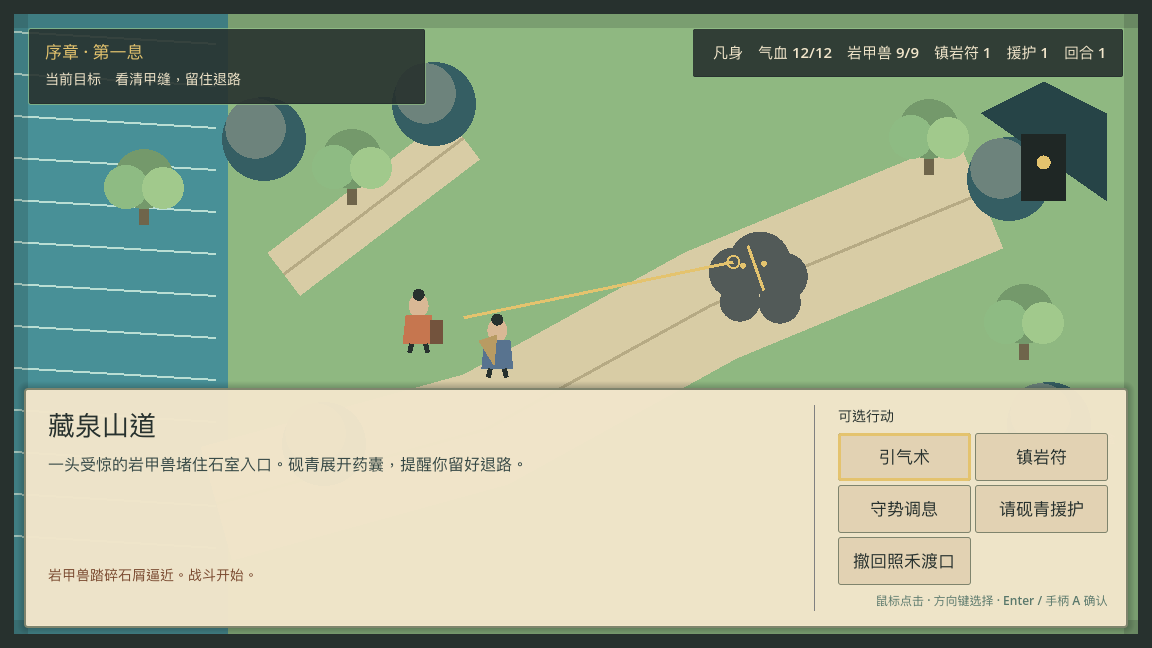
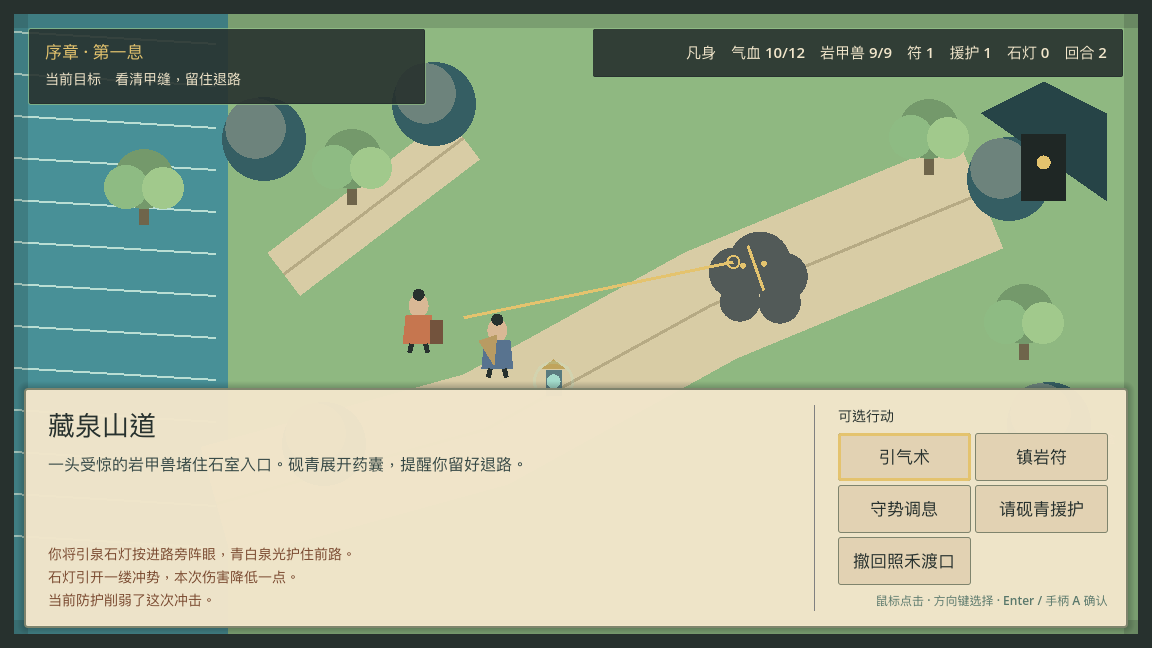
feat: add tactical spring lamp

Changed region(s): [[0.0312, 0.8333, 0.3125, 0.9568], [0.5, 0.0309, 0.9688, 0.1235], [0.4688, 0.5556, 0.5, 0.6173]]

diff --git a/docs/DECISIONS.md b/docs/DECISIONS.md
@@ -29,6 +29,9 @@ state; save v3 adds the companion-briefing quest flag. V1/v2 files are migrated 
 validated, then rewritten only after the player chooses to continue. Mid-chapter legacy saves
 infer that the required briefing already occurred; ferry saves expose the new conversation.
 
+Save v4 adds the tactical-deployable slot and remaining effect turns. V1–v3 migrations initialize
+an unused lamp and no invented active effect.
+
 ### 2026-08-01 — Spatial briefing starts the quest
 
 The opening objective first asks the player to approach 砚青 at the ferry marker. The companion
@@ -52,6 +55,14 @@ intentional Godot resource identity metadata; the `.pck` itself stays under igno
 Native macOS, Windows, or Linux executables wait for a confirmed distribution target, official
 export templates, product icon, signing identity, and platform smoke tests. Local players can
 build and launch the validated pack with `make play-rpg-package` using the pinned engine entrypoint.
+
+### 2026-08-01 — Visible two-turn tactical deployable
+
+The first deployable slot holds one 引泉石灯 per combat attempt. Deployment consumes the slot,
+reduces the current incoming hit by one, and persists for one more enemy response. The active lamp
+is visible on the battlefield and in the HUD. Retreat or companion rescue resets the attempt and
+restores the lamp; victory records whether it was used in chapter settlement. This establishes a
+real tactical-slot contract without introducing a general inventory or equipment framework.
 
 ### 2026-08-01 — Recoverable first-combat failure
 

diff --git a/docs/TESTING.md b/docs/TESTING.md
@@ -5,8 +5,8 @@
 | Boundary | Gate | Current result |
 | --- | --- | --- |
 | Deterministic cultivation rules | pytest + branch coverage, minimum 99% | 50 tests; 100% statements and branches |
-| Godot RPG rules and scenes | headless GDScript harness | 185 assertions passing |
-| Godot RPG chapter path | independent headless E2E | 16 checks: briefing → exploration → retreat → battle → breakthrough → resume → replay |
+| Godot RPG rules and scenes | headless GDScript harness | 205 assertions passing |
+| Godot RPG chapter path | independent headless E2E | 17 checks: briefing → exploration → retreat → deployable → battle → breakthrough → resume → replay |
 | Godot RPG package | double PCK export + boot smoke | byte-reproducible pack; headless main scene boot passing |
 | Evennia commands and world bootstrap | Evennia isolated database harness | command, localization, and bootstrap integration tests passing |
 | Multiplayer release path | real server, two real Telnet clients | 中文注册 → 登录 → 采药 → 修炼 → 协作 → 突破 → 重连持久化 |

diff --git a/rpg/README.md b/rpg/README.md
@@ -31,7 +31,8 @@ signing identity, product icon, and distribution target are confirmed.
 手柄 A；也可以点击右侧出现的行动。河水、地图边缘和房屋具有确定性碰撞，必须
 亲自走到月芽田采集，再沿路抵达藏泉山门。战斗阶段使用鼠标点击，或用方向键
 切换焦点并按 `Enter`/手柄 A 确认；可请求一次砚青援护，也可沿预留路线撤退。
-气血耗尽会由同伴救回渡口，不会形成无法继续的死档。运行时绘制仍只用于验证布局、比例和可读性，
+战术部署槽可布置一盏引泉石灯，在部署回合与下一回合各削弱一点冲击；气血耗尽
+会由同伴救回渡口，不会形成无法继续的死档。运行时绘制仍只用于验证布局、比例和可读性，
 正式 Sprite Sheet 与 TileSet 将在后续循环加入。
 
 开场任务采用同一套近距离交互：先在渡碑旁与砚青交谈，任务目标随后切换为采药，

diff --git a/README.md b/README.md
@@ -78,8 +78,8 @@ make test-multiplayer-e2e    # live server + real two-client journey only
 ```
 
 The deterministic multiplayer domain rules have an enforced 99% statement/branch minimum and
-currently reach 100%. Godot behavior is covered by 185 headless rule/scene assertions plus an
-independent 16-check chapter E2E. The MUD adapter has isolated Evennia tests, and its release path
+currently reach 100%. Godot behavior is covered by 205 headless rule/scene assertions plus an
+independent 17-check chapter E2E. The MUD adapter has isolated Evennia tests, and its release path
 is exercised through two real concurrent Telnet clients. The preserved browser prototype retains
 its own 100% unit result and 53-execution Playwright matrix. See [testing](docs/TESTING.md),
 [architecture](docs/ARCHITECTURE.md), and the [vertical-slice contract](docs/VERTICAL_SLICE.md).

diff --git a/docs/PROJECT_CONTEXT.md b/docs/PROJECT_CONTEXT.md
@@ -129,7 +129,7 @@ Expand the executable RPG graybox into a complete 90-minute original chapter:
 3. 月芽田 resource choice;
 4. 藏泉山道 warning, retreat, and companion rescue path (implemented; free path exploration remains);
 5. three regular enemy profiles and one boss;
-6. an active chapter companion (first aid implemented) and one deployable tactical slot;
+6. an active chapter companion and a visible two-turn tactical deployable (implemented);
 7. versioned save/load, title/continue, and safe backup recovery (implemented; chapter replay remains);
 8. mouse, keyboard, and controller parity;
 9. original visual direction and opt-in procedural ambience with recorded provenance (functional implementation complete; final assets remain);

diff --git a/docs/concepts/gameplay-ui-v1/README.md b/docs/concepts/gameplay-ui-v1/README.md
@@ -40,7 +40,8 @@ make capture-rpg-ui
 ![藏泉山道战斗功能性游戏镜头](02-cangquan-battle.png)
 
 岩甲兽、甲缝、符线、敌我站位、洞口和退路在明亮环境中保持可读。危险不依赖
-黑暗滤镜，状态栏显示确定性战斗需要的气血、敌血、符箓与回合。
+黑暗滤镜，状态栏显示确定性战斗需要的气血、敌血、符箓、同伴援护、石灯槽与
+回合。引泉石灯在地图上显示青白核心和护阵光圈，持续效果不是只存在于文字里。
 
 ## 藏泉石室
 
